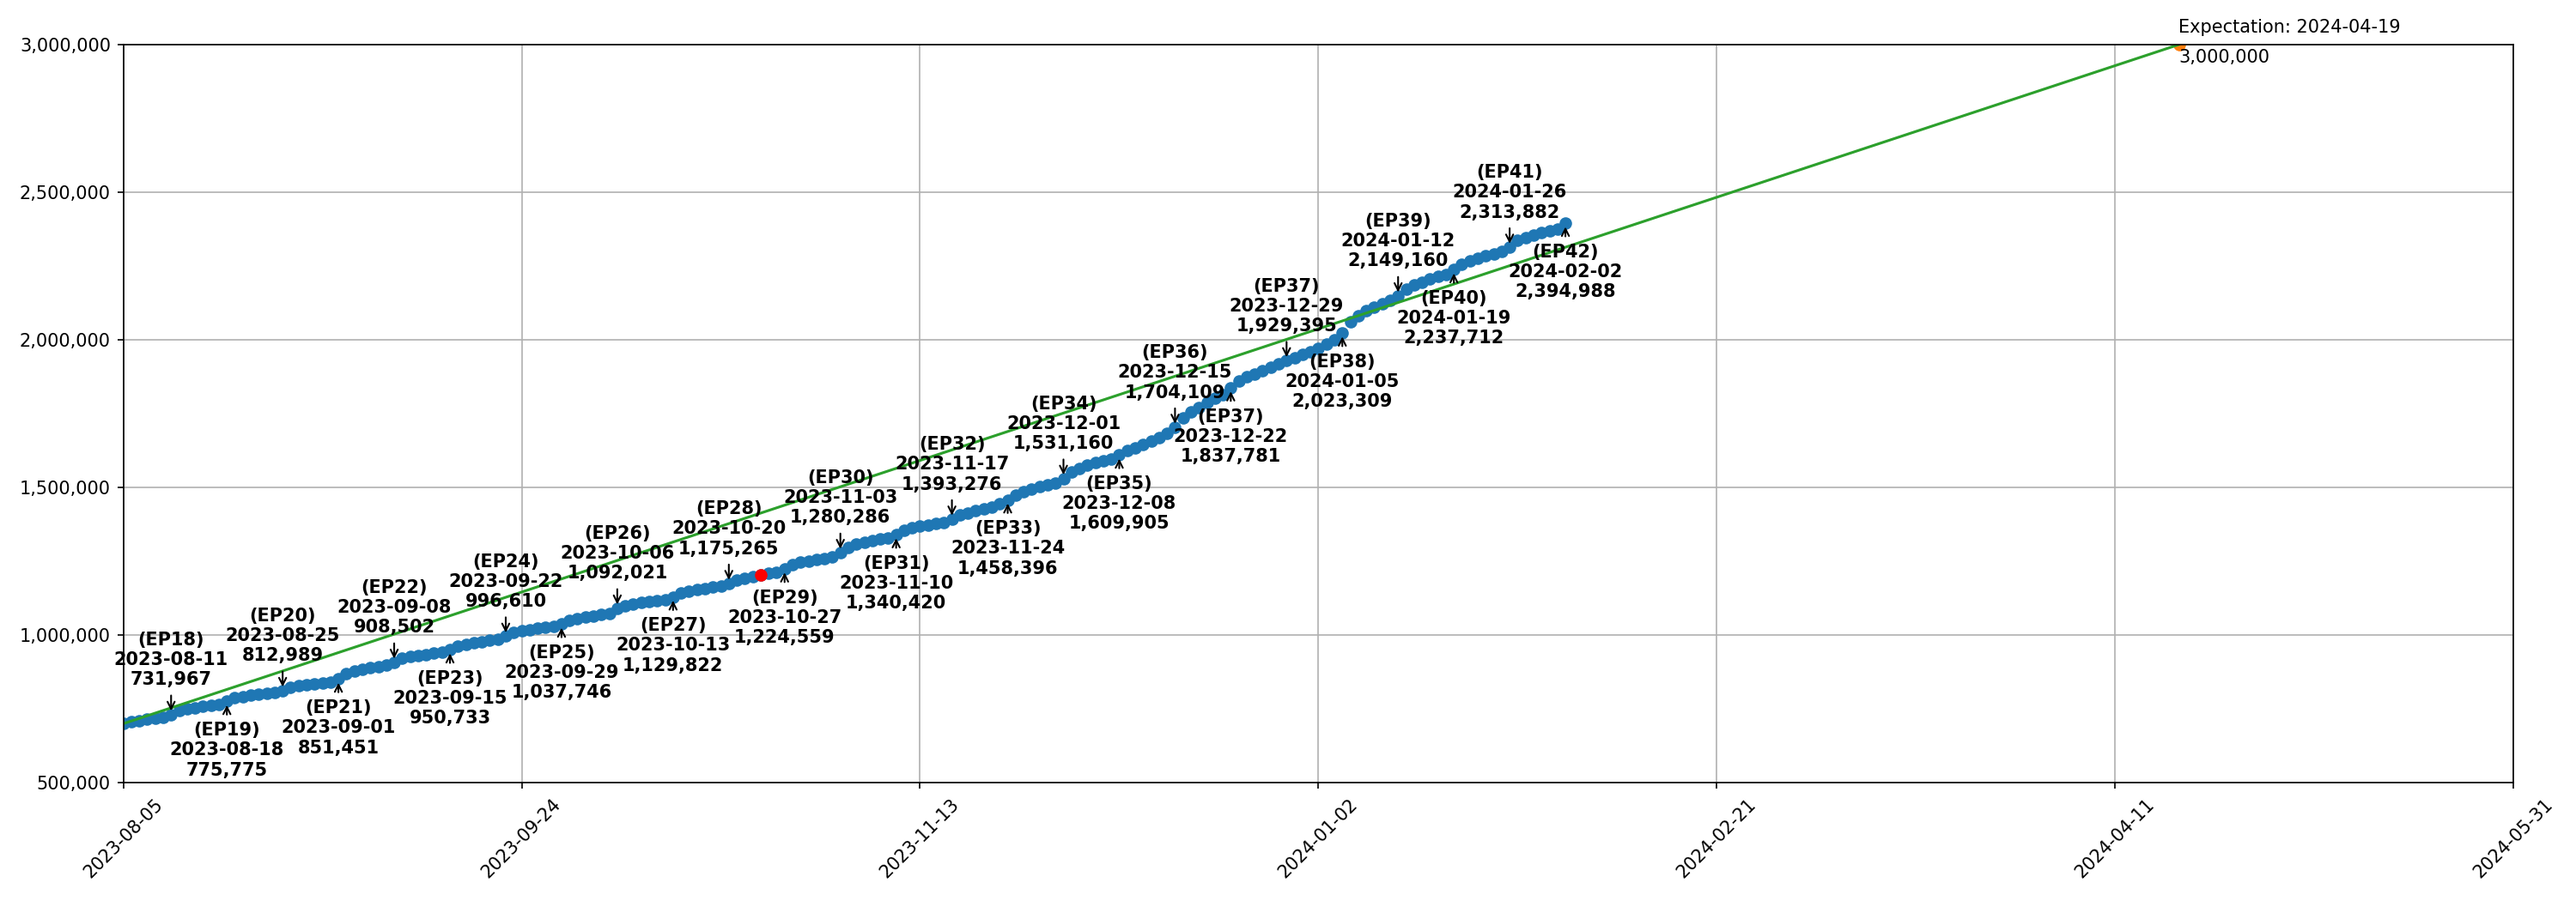
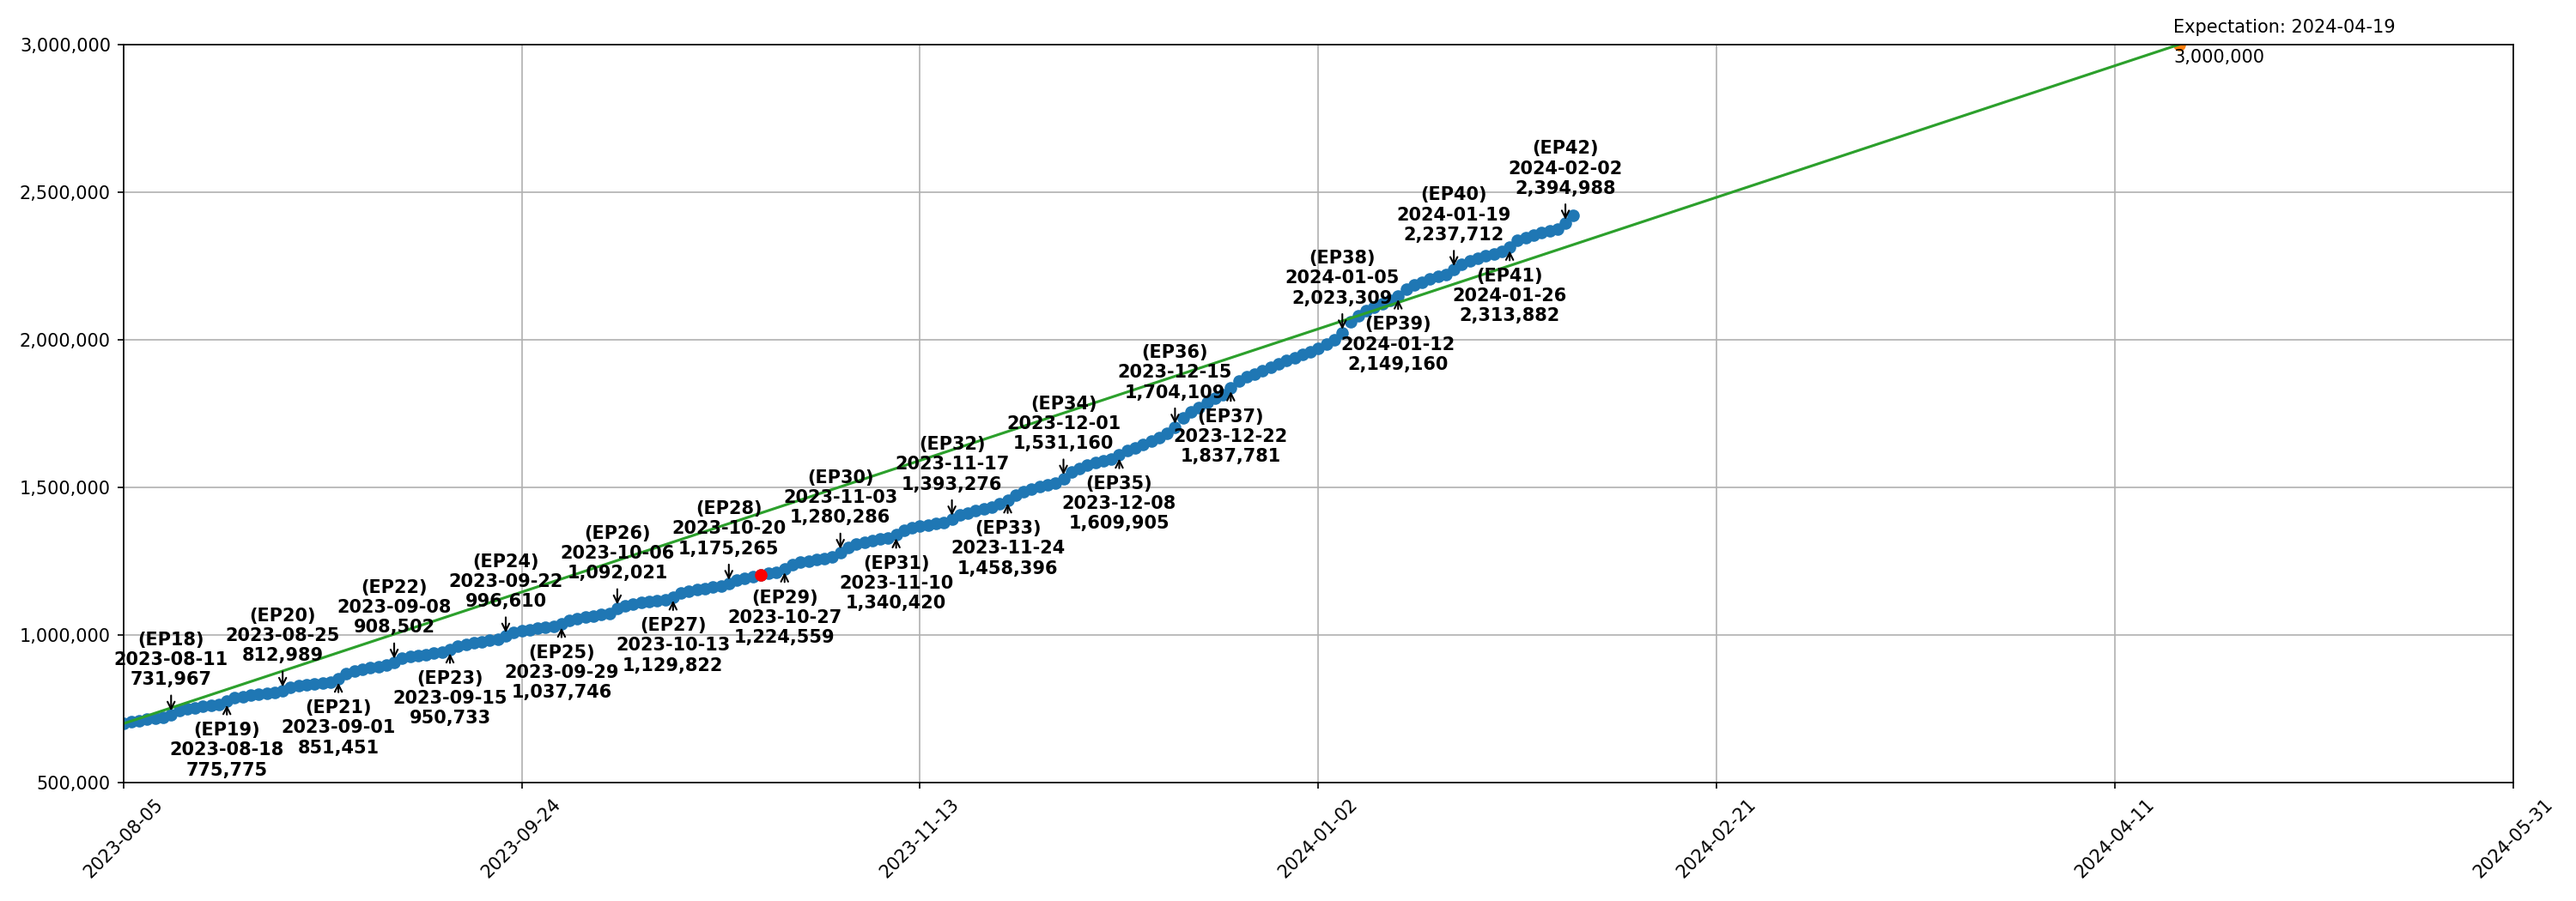
Graph update

Changed region(s): [[0.465, 0.1524, 0.651, 0.4571], [0.837, 0.0, 0.93, 0.0914]]

diff --git a/src/lib/prediction.py b/src/lib/prediction.py
@@ -66,6 +66,8 @@ for i in range(len(X)):
         curr = sehasu_ep_start + int(((i + 1) / 7) - 1)
         if curr >= 38:
             curr -= 1
+            if curr == 37:
+                continue
         plt.annotate(
             "(EP"
             + str(curr)
